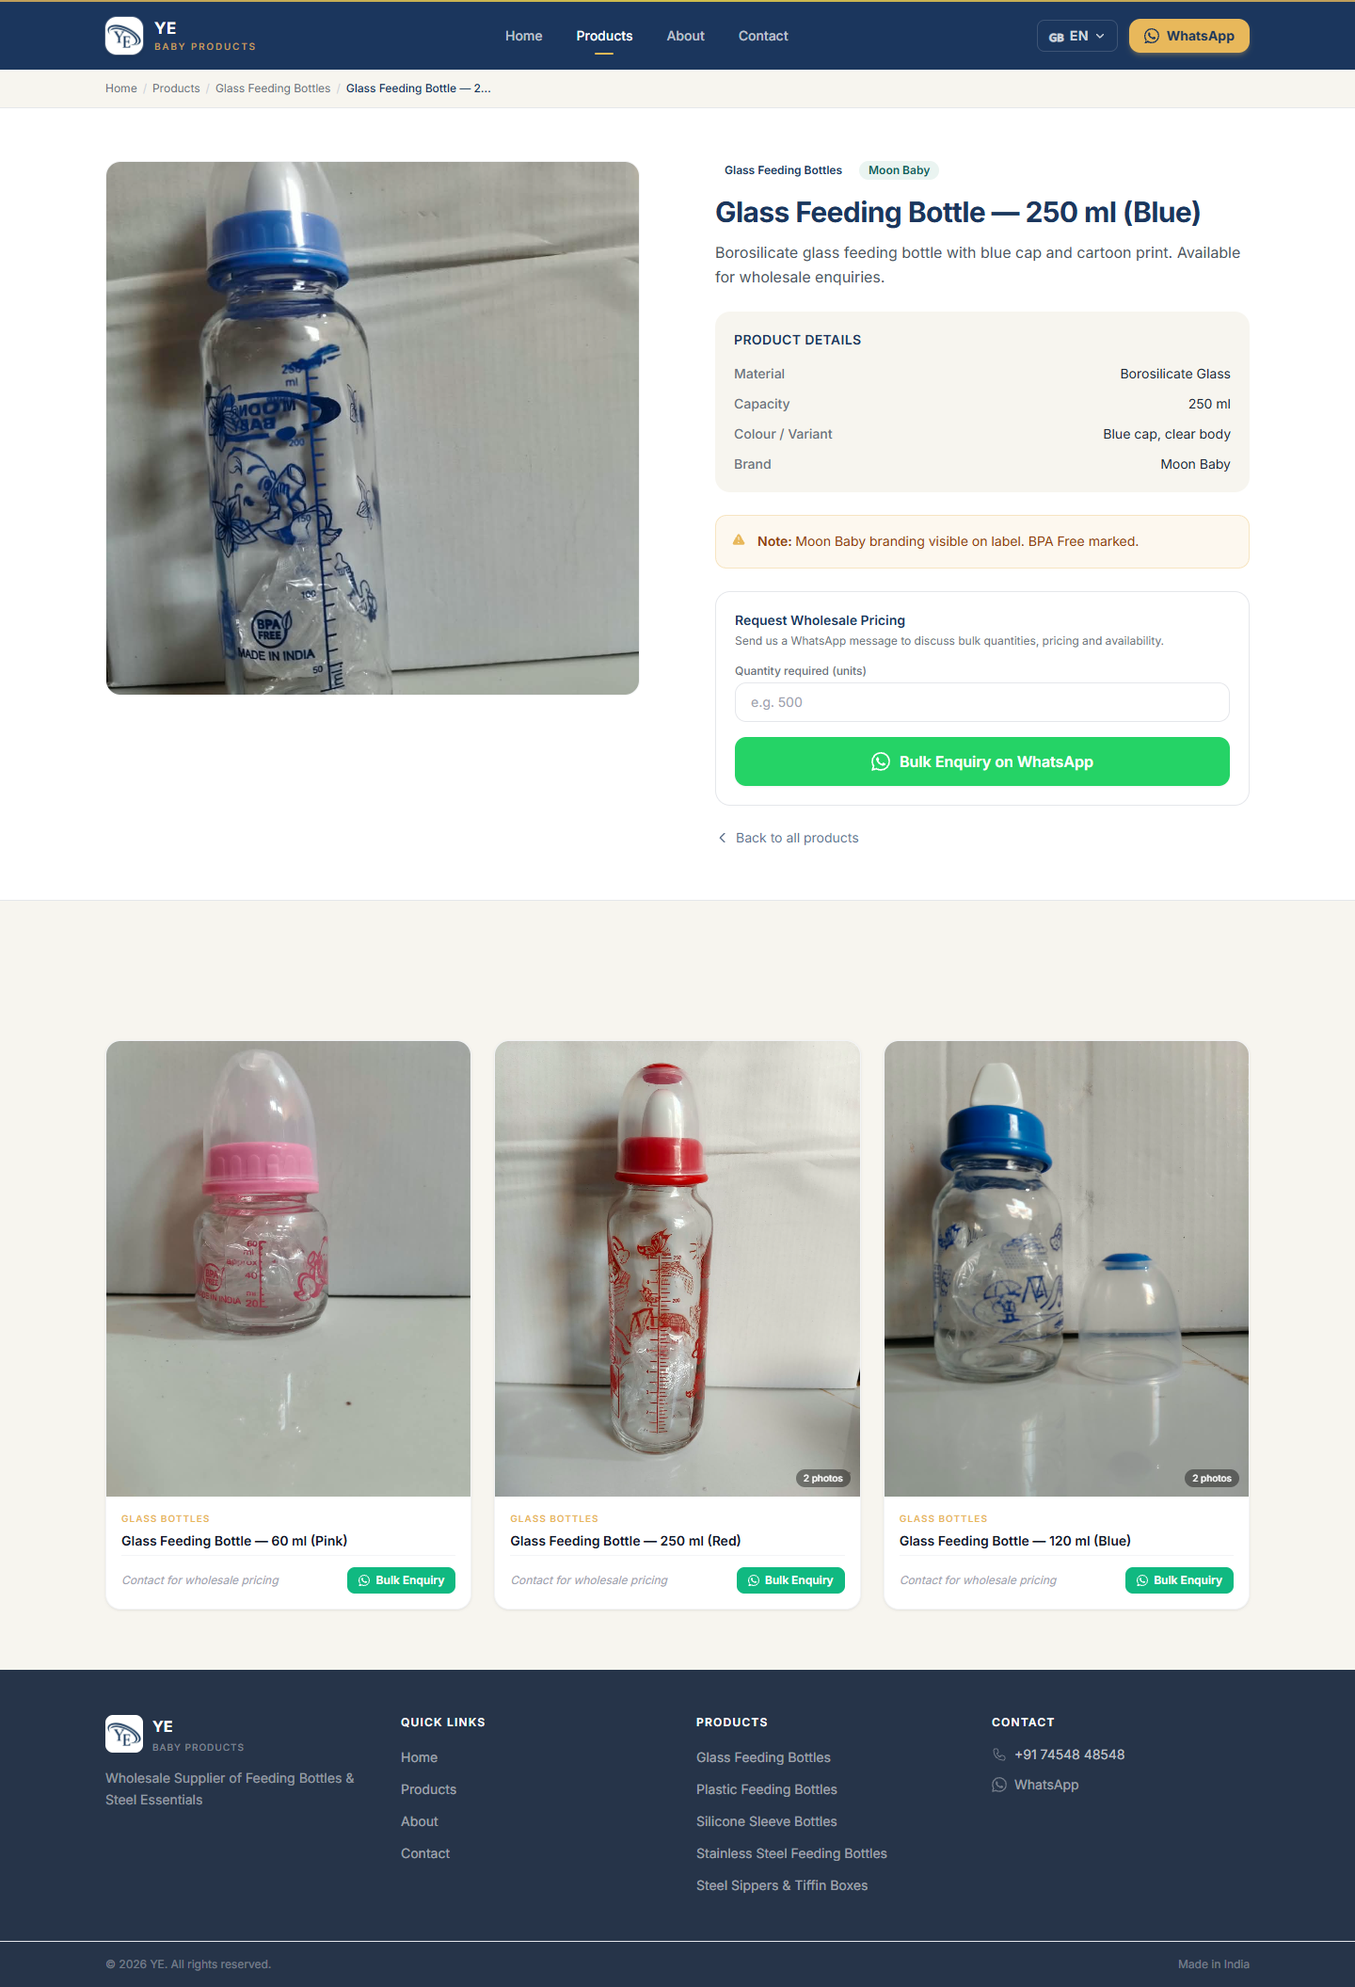
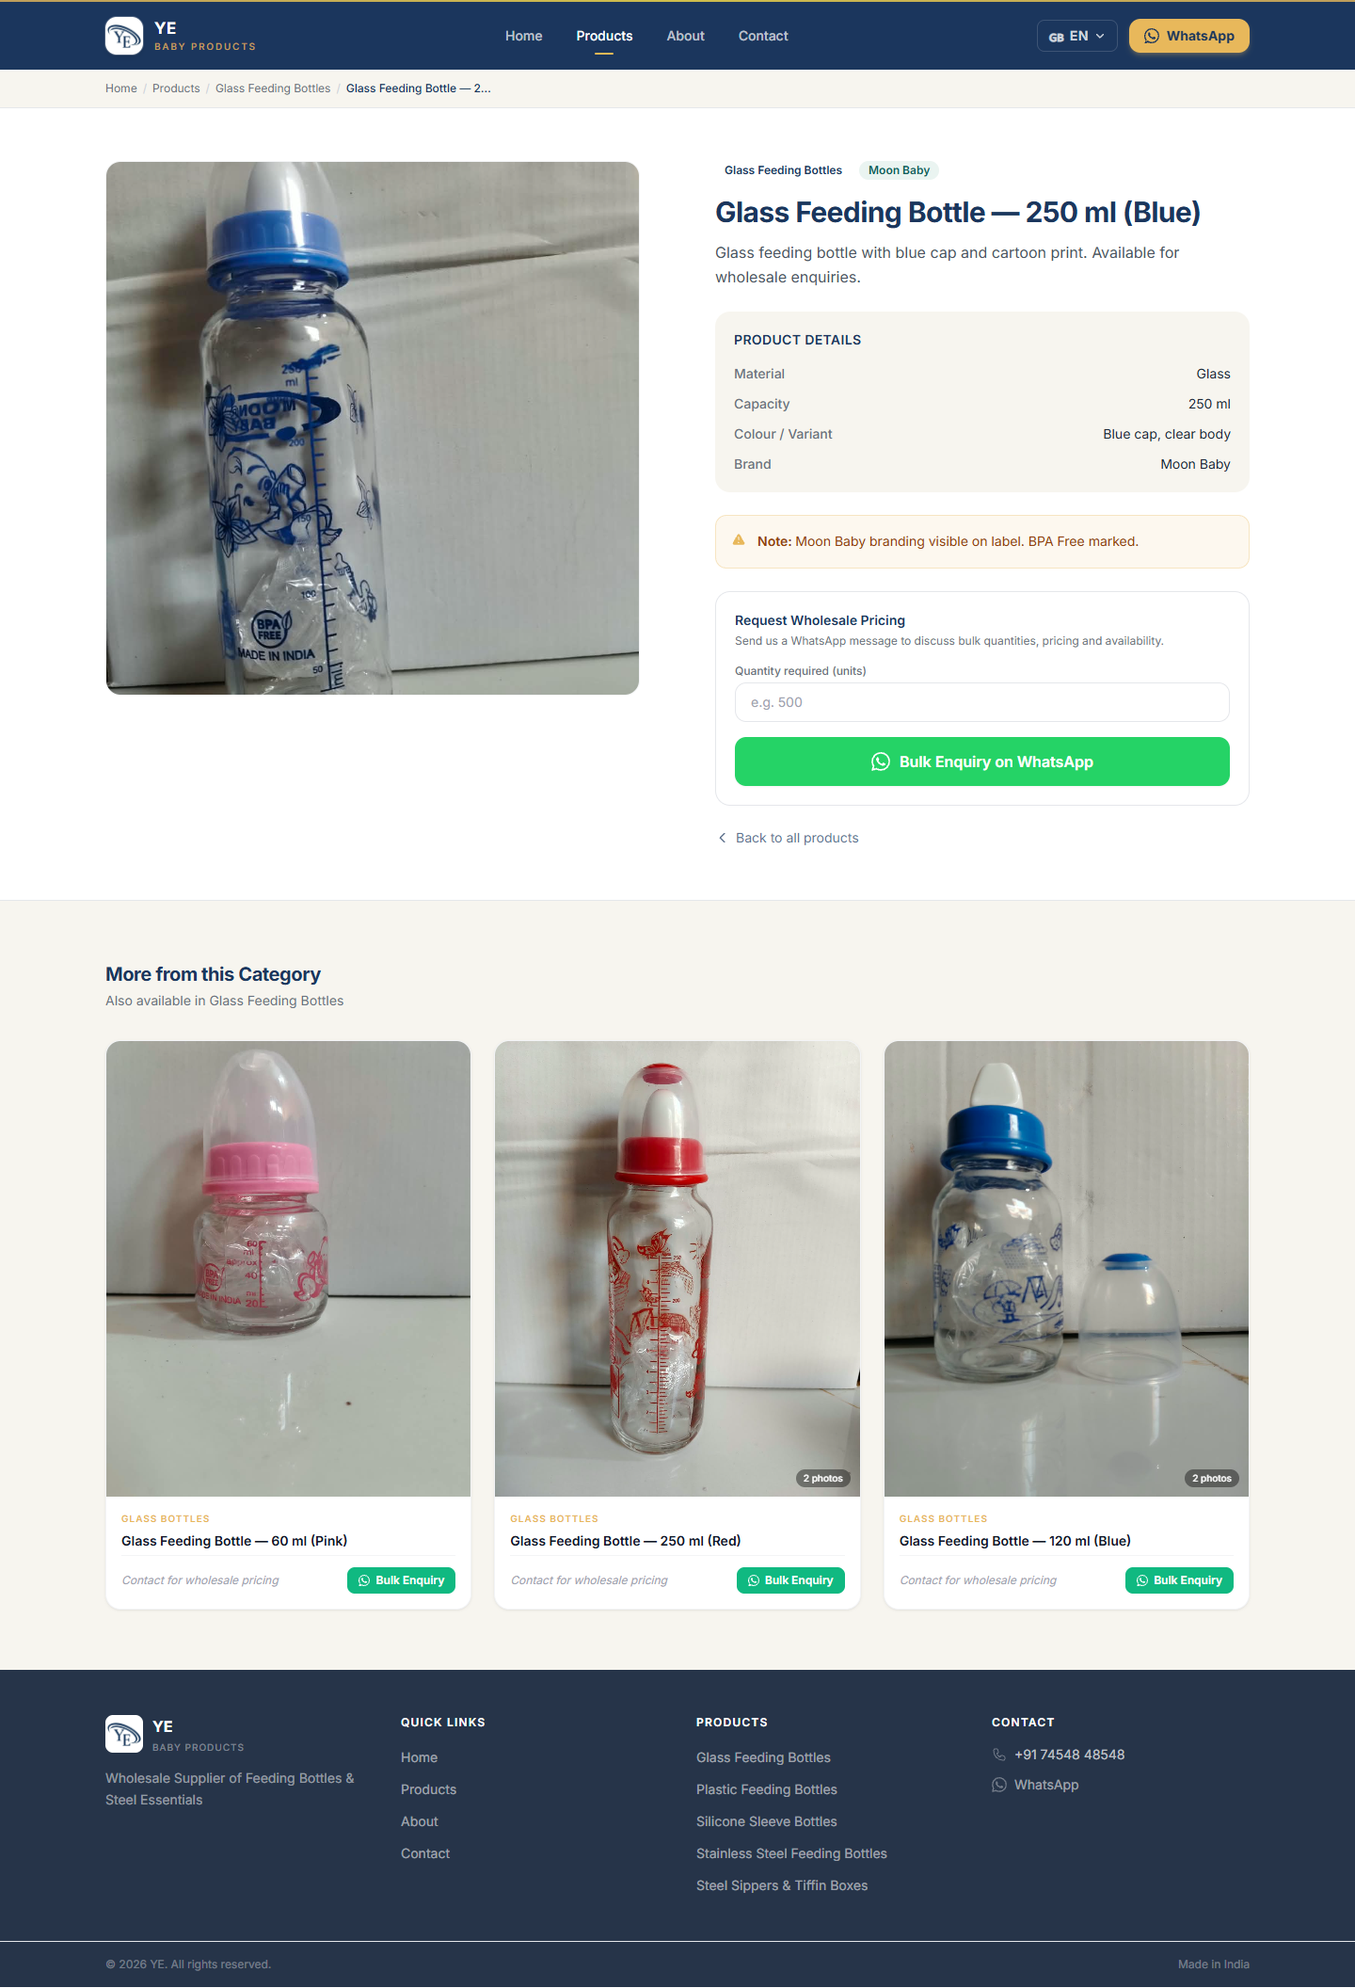
Phase 1 final corrections: image lazy-load fix, factual-claims audit, config admin comments, en/hi translation fixes
Changes:
- ProductCard: loading=lazy -> loading=eager (fixes blank tiffin/sipper in catalogue screenshots)
- site.config.js: full admin-panel comments, CONFIRMED/TODO markers, claim flags (claimBorosilicateGlass, claimVacuumInsulated etc)
- products.js: glass bottles material softened from 'Borosilicate Glass' to 'Glass' (unconfirmed spec); sipper vacuum-insulation claim removed from material field; notes updated
- en.js: fixed run-together array entries from previous edit; safeMaterialsDesc clarified to 'BPA-free marked'; whyCards Safe Materials no longer claims borosilicate
- hi.js: same array formatting fix; glass-bottlesDesc improved; whyCards Safe Materials updated to match en
- visual-review/: 12 fresh screenshots with scroll-before-capture (all product images now visible)

diff --git a/src/config/site.config.js b/src/config/site.config.js
@@ -1,51 +1,92 @@
 /**
- * Site configuration — YE Baby Products
+ * ─────────────────────────────────────────────────────────────────────────────
+ * YE Baby Products — Site Configuration (Admin Panel)
+ * ─────────────────────────────────────────────────────────────────────────────
  *
- * Update these values when confirmed by the manufacturer.
- * Fields marked TODO require additional manufacturer input before launch.
+ * INSTRUCTIONS FOR THE MANUFACTURER / ADMIN:
+ *   Edit only the values in this file. All pages pull contact details,
+ *   branding and business information from here automatically.
+ *
+ * Fields marked  ✅ CONFIRMED   — verified by the manufacturer.
+ * Fields marked  ⚠ TODO         — need manufacturer input before going live.
+ *   Leave TODO fields as empty string ''. The website will display
+ *   "To be confirmed" automatically wherever they are empty.
+ *
+ * ─────────────────────────────────────────────────────────────────────────────
  */
 
 const siteConfig = {
-  // Brand
+
+  // ── Brand ──────────────────────────────────────────────────────────────────
+  // ✅ CONFIRMED
   brandName: 'YE',
   tagline: 'Feeding Bottles & Steel Essentials — Wholesale Supplier',
 
-  // WhatsApp — country code + number, digits only
-  whatsappNumber: '917454848548',
-
-  // Owner / contact
-  ownerPhone: '7454848548',
-  ownerPhoneDisplay: '+91 74548 48548',
-  ownerPhoneTel: 'tel:7454848548',
-  ownerWhatsApp: 'https://wa.me/917454848548',
-  // ownerName: '',        // TODO: confirm owner name before publishing
-  // ownerDesignation: '', // TODO: confirm designation before publishing
-  ownerPhotoPath: '/assets/owner photo.jpeg',
-
-  // Contact details
-  phone: '7454848548',
-  phoneDisplay: '+91 74548 48548',
-  email: '',            // TODO: business email
-  address: '',          // TODO: business address
-  businessHours: '',    // TODO: e.g. 'Mon–Sat, 9 AM – 6 PM IST'
-
-  // Social (optional)
-  instagram: '',        // TODO: if available
-  facebook: '',         // TODO: if available
-
-  // Domain
-  siteUrl: '',          // TODO: e.g. 'https://yeproducts.in'
-
-  // Sub-brand (relationship unconfirmed)
+  // Sub-brand appearing on some glass bottle labels.
+  // ⚠ TODO: Confirm exact relationship between YE and Moon Baby
   subBrand: 'Moon Baby',
 
-  // Colours (mirrors tailwind.config.js tokens)
+  // ── WhatsApp ───────────────────────────────────────────────────────────────
+  // ✅ CONFIRMED — country code + digits only, no spaces, no +
+  whatsappNumber: '917454848548',
+
+  // ── Owner / Primary Contact ────────────────────────────────────────────────
+  // ✅ CONFIRMED
+  ownerPhone: '7454848548',
+  ownerPhoneDisplay: '+91 74548 48548',
+  ownerPhoneTel: 'tel:+917454848548',
+  ownerWhatsApp: 'https://wa.me/917454848548',
+
+  // ⚠ TODO: Provide the owner's full name and designation
+  //   ownerName: '',
+  //   ownerDesignation: '',
+
+  // ✅ CONFIRMED — photo file is in /assets/
+  ownerPhotoPath: '/assets/owner photo.jpeg',
+
+  // ── Business Contact Details ───────────────────────────────────────────────
+  // ✅ CONFIRMED
+  phone: '7454848548',
+  phoneDisplay: '+91 74548 48548',
+
+  // ⚠ TODO: Business email address
+  email: '',
+
+  // ⚠ TODO: Full business address (shown on Contact page)
+  address: '',
+
+  // ⚠ TODO: Business hours (e.g. 'Mon–Sat, 9 AM – 6 PM IST')
+  businessHours: '',
+
+  // ── Social / Online Presence ───────────────────────────────────────────────
+  // ⚠ TODO: Fill in if Instagram / Facebook pages exist
+  instagram: '',
+  facebook: '',
+
+  // ⚠ TODO: Live website domain once published
+  siteUrl: '',
+
+  // ── Product / Specification Claims ─────────────────────────────────────────
+  // These control which specification badges appear site-wide.
+  // Set to true ONLY when the manufacturer has confirmed the claim.
+  // ✅ CONFIRMED — "Made in India" label visible on product packaging
+  claimMadeInIndia: true,
+  // ⚠ TODO: Confirm — "BPA Free" marking visible on some product packaging photos
+  claimBpaFree: true,
+  // ⚠ TODO: Confirm — glass products described as borosilicate; verify with manufacturer
+  claimBorosilicateGlass: false,
+  // ✅ CONFIRMED — SS 304 engraved on stainless steel bottles
+  claimSS304: true,
+  // ⚠ TODO: Confirm vacuum insulation spec for steel sipper
+  claimVacuumInsulated: false,
+
+  // ── Colours (mirrors tailwind.config.js tokens) ────────────────────────────
   colors: {
-    primaryNavy: '#1B365D',
+    primaryNavy: '#19345A',
     primaryNavyLight: '#2A4A7A',
-    primaryNavyDark: '#122440',
+    primaryNavyDark: '#142A48',
     ivory: '#F7F5EF',
-    amber: '#E8B85B',
+    amber: '#E9B956',
   },
 }
 

diff --git a/src/data/products.js b/src/data/products.js
@@ -35,7 +35,7 @@ const categories = [
     name_hi: 'कांच की फीडिंग बोतलें',
     slug: 'glass-bottles',
     sort_order: 1,
-    description: 'Borosilicate glass feeding bottles in multiple sizes',
+    description: 'Glass feeding bottles in multiple sizes',
     description_hi: 'विभिन्न साइज़ में कांच की फीडिंग बोतलें',
     heroImage: '/assets/WhatsApp Image 2026-11-02 at 1.08.54 PM.jpeg',
     // accent: cool blue/lavender
@@ -108,9 +108,9 @@ const products = [
     name_hi: 'कांच की फीडिंग बोतल — 250 ml (नीली)',
     slug: 'glass-feeding-bottle-250ml-blue',
     category_id: 'glass-bottles',
-    description: 'Borosilicate glass feeding bottle with blue cap and cartoon print. Available for wholesale enquiries.',
+    description: 'Glass feeding bottle with blue cap and cartoon print. Available for wholesale enquiries.',
     description_hi: 'नीली कैप और प्रिंट वाली कांच की फीडिंग बोतल (250 ml)। थोक ऑर्डर के लिए संपर्क करें।',
-    material: 'Borosilicate Glass',
+    material: 'Glass',
     capacity: '250 ml',
     colours: ['Blue cap, clear body'],
     brand: 'Moon Baby',
@@ -133,9 +133,9 @@ const products = [
     name_hi: 'कांच की फीडिंग बोतल — 60 ml (गुलाबी)',
     slug: 'glass-feeding-bottle-60ml-pink',
     category_id: 'glass-bottles',
-    description: 'Small borosilicate glass feeding bottle for newborns, with pink cap. Available for wholesale enquiries.',
+    description: 'Small glass feeding bottle for newborns, with pink cap. Available for wholesale enquiries.',
     description_hi: 'नवजात शिशुओं के लिए छोटी कांच की फीडिंग बोतल, गुलाबी कैप (60 ml)। थोक ऑर्डर के लिए संपर्क करें।',
-    material: 'Borosilicate Glass',
+    material: 'Glass',
     capacity: '60 ml',
     colours: ['Pink cap, clear body'],
     brand: null,
@@ -158,9 +158,9 @@ const products = [
     name_hi: 'कांच की फीडिंग बोतल — 250 ml (लाल)',
     slug: 'glass-feeding-bottle-250ml-red',
     category_id: 'glass-bottles',
-    description: 'Clear borosilicate glass feeding bottle with red cap and printed cartoon design. Contact us for wholesale pricing.',
+    description: 'Clear glass feeding bottle with red cap and printed cartoon design. Contact us for wholesale pricing.',
     description_hi: 'लाल कैप और प्रिंट वाली कांच की फीडिंग बोतल (250 ml)। थोक रेट के लिए संपर्क करें।',
-    material: 'Borosilicate Glass',
+    material: 'Glass',
     capacity: '250 ml',
     colours: ['Red cap, clear body'],
     brand: null,
@@ -188,9 +188,9 @@ const products = [
     name_hi: 'कांच की फीडिंग बोतल — 120 ml (नीली)',
     slug: 'glass-feeding-bottle-120ml-blue',
     category_id: 'glass-bottles',
-    description: 'Short borosilicate glass feeding bottle with blue cap and cloud print. Available for wholesale orders.',
+    description: 'Short glass feeding bottle with blue cap and cloud print. Available for wholesale orders.',
     description_hi: 'नीली कैप और क्लाउड प्रिंट वाली कांच की छोटी फीडिंग बोतल (120 ml)। थोक ऑर्डर के लिए संपर्क करें।',
-    material: 'Borosilicate Glass',
+    material: 'Glass',
     capacity: '120 ml',
     colours: ['Blue cap, clear body'],
     brand: null,
@@ -502,9 +502,9 @@ const products = [
     name_hi: 'स्टेनलेस स्टील वैक्यूम सिपर',
     slug: 'stainless-steel-vacuum-sipper',
     category_id: 'ss-accessories',
-    description: 'Cola-shaped stainless steel vacuum insulated sipper / water bottle with YE branding engraved. Contact for wholesale pricing.',
-    description_hi: 'YE ब्रांड एनग्रेव किया हुआ स्टेनलेस स्टील वैक्यूम इंसुलेटेड सिपर / वाटर बोतल। थोक रेट के लिए संपर्क करें।',
-    material: 'Stainless Steel (vacuum insulated)',
+    description: 'Cola-shaped stainless steel sipper / water bottle with YE branding engraved. Contact for wholesale pricing.',
+    description_hi: 'YE ब्रांड एनग्रेव किया हुआ स्टेनलेस स्टील सिपर / वाटर बोतल। थोक रेट के लिए संपर्क करें।',
+    material: 'Stainless Steel',
     capacity: null,
     colours: ['Silver'],
     brand: 'YE',
@@ -523,7 +523,7 @@ const products = [
         is_primary: false,
       },
     ],
-    notes: 'YE logo engraved — visible in close-up image.',
+    notes: 'YE logo engraved — visible in close-up image. Vacuum insulation unconfirmed by manufacturer — update site.config.js when confirmed.',
   },
 ]
 

diff --git a/src/i18n/translations/hi.js b/src/i18n/translations/hi.js
@@ -47,7 +47,7 @@ export const hi = {
     title: 'हमारे प्रोडक्ट',
     subtitle: 'कांच और प्लास्टिक की फीडिंग बोतलें, सिलिकॉन स्लीव बोतलें, SS फीडिंग बोतलें, सिपर और टिफिन बॉक्स — थोक सप्लाई के लिए उपलब्ध।',
     'glass-bottles': 'कांच की फीडिंग बोतलें',
-    'glass-bottlesDesc': 'अलग-अलग साइज़ में',
+    'glass-bottlesDesc': 'अलग-अलग साइज़ में कांच की बोतलें',
     'plastic-bottles': 'प्लास्टिक की फीडिंग बोतलें',
     'plastic-bottlesDesc': 'BPA-फ्री प्लास्टिक बोतलें',
     'silicone-sleeve': 'सिलिकॉन स्लीव बोतलें',
@@ -156,7 +156,7 @@ export const hi = {
     waBtn: 'WhatsApp',
     whyCards: [
       { title: 'भारत में निर्मित', desc: 'हमारे सभी प्रोडक्ट भारत में बने हैं — प्रतिस्पर्धी कीमत के साथ देशी निर्माण का समर्थन।' },
-      { title: 'सुरक्षित मटेरियल', desc: 'BPA-फ्री प्लास्टिक, बोरोसिलिकेट कांच और SS 304 स्टेनलेस स्टील — बच्चों के प्रोडक्ट के लिए उपयुक्त।' },
+      { title: 'सुरक्षित मटेरियल', desc: 'BPA-फ्री प्लास्टिक, कांच और SS 304 स्टेनलेस स्टील — बच्चों के प्रोडक्ट के लिए उपयुक्त।' },
       { title: 'निर्माता से सीधे रेट', desc: 'सीधे निर्माता से खरीदें। बीच में कोई दलाल नहीं — थोक और बड़े ऑर्डर पर प्रतिस्पर्धी कीमत।' },
       { title: 'पूरा रेंज', desc: '60 ml की नवजात बोतल से 300 ml की स्टील बोतल तक, सिपर और टिफिन बॉक्स — सब एक ही सप्लायर से।' },
       { title: 'थोक ऑर्डर', desc: 'हम थोक विक्रेताओं, डिस्ट्रीब्यूटर्स और बड़े खरीदारों को सप्लाई करते हैं। मात्रा और शर्तों के बारे में बात करें।' },

diff --git a/src/i18n/translations/en.js b/src/i18n/translations/en.js
@@ -28,7 +28,7 @@ export const en = {
     madeInIndia: 'Made in India',
     madeInIndiaDesc: 'Proudly manufactured in India',
     safeMaterials: 'Safe Materials',
-    safeMaterialsDesc: 'BPA-free plastics and food-grade steel',
+    safeMaterialsDesc: 'BPA-free marked plastics and food-grade steel',
     directFactory: 'Direct Manufacturer',
     directFactoryDesc: 'Factory pricing, no middlemen',
     wholesale: 'Wholesale Supply',
@@ -45,7 +45,7 @@ export const en = {
     title: 'Product Range',
     subtitle: 'Glass and plastic feeding bottles, silicone sleeve bottles, SS feeding bottles, sippers and tiffin boxes — available for wholesale supply.',
     'glass-bottles': 'Glass Feeding Bottles',
-    'glass-bottlesDesc': 'Borosilicate glass in multiple sizes',
+    'glass-bottlesDesc': 'Glass bottles in multiple sizes',
     'plastic-bottles': 'Plastic Feeding Bottles',
     'plastic-bottlesDesc': 'BPA-free plastic bottles',
     'silicone-sleeve': 'Silicone Sleeve Bottles',
@@ -154,7 +154,7 @@ export const en = {
     waBtn: 'WhatsApp',
     whyCards: [
       { title: 'Made in India', desc: 'All our products are manufactured in India, supporting domestic manufacturing with competitive pricing.' },
-      { title: 'Safe Materials', desc: 'BPA-free plastics, borosilicate glass and SS 304 stainless steel — materials suitable for baby products.' },
+      { title: 'Safe Materials', desc: 'BPA-free plastics, glass and SS 304 stainless steel — materials suitable for baby products.' },
       { title: 'Manufacturer Pricing', desc: 'Buy directly from the manufacturer. No middlemen — competitive wholesale and bulk order pricing.' },
       { title: 'Complete Range', desc: 'From 60 ml newborn bottles to 300 ml steel bottles, sippers and tiffin boxes — all from one supplier.' },
       { title: 'Wholesale Orders', desc: 'We supply wholesalers, distributors and bulk buyers. Contact us to discuss quantities and trade terms.' },

diff --git a/src/components/ui/ProductCard.jsx b/src/components/ui/ProductCard.jsx
@@ -27,7 +27,7 @@ export default function ProductCard({ product }) {
             src={primary.src}
             alt={primary.alt || name}
             className="product-card-img w-full h-full object-cover"
-            loading="lazy"
+            loading="eager"
           />
         ) : (
           <div className="w-full h-full flex items-center justify-center text-gray-200">
